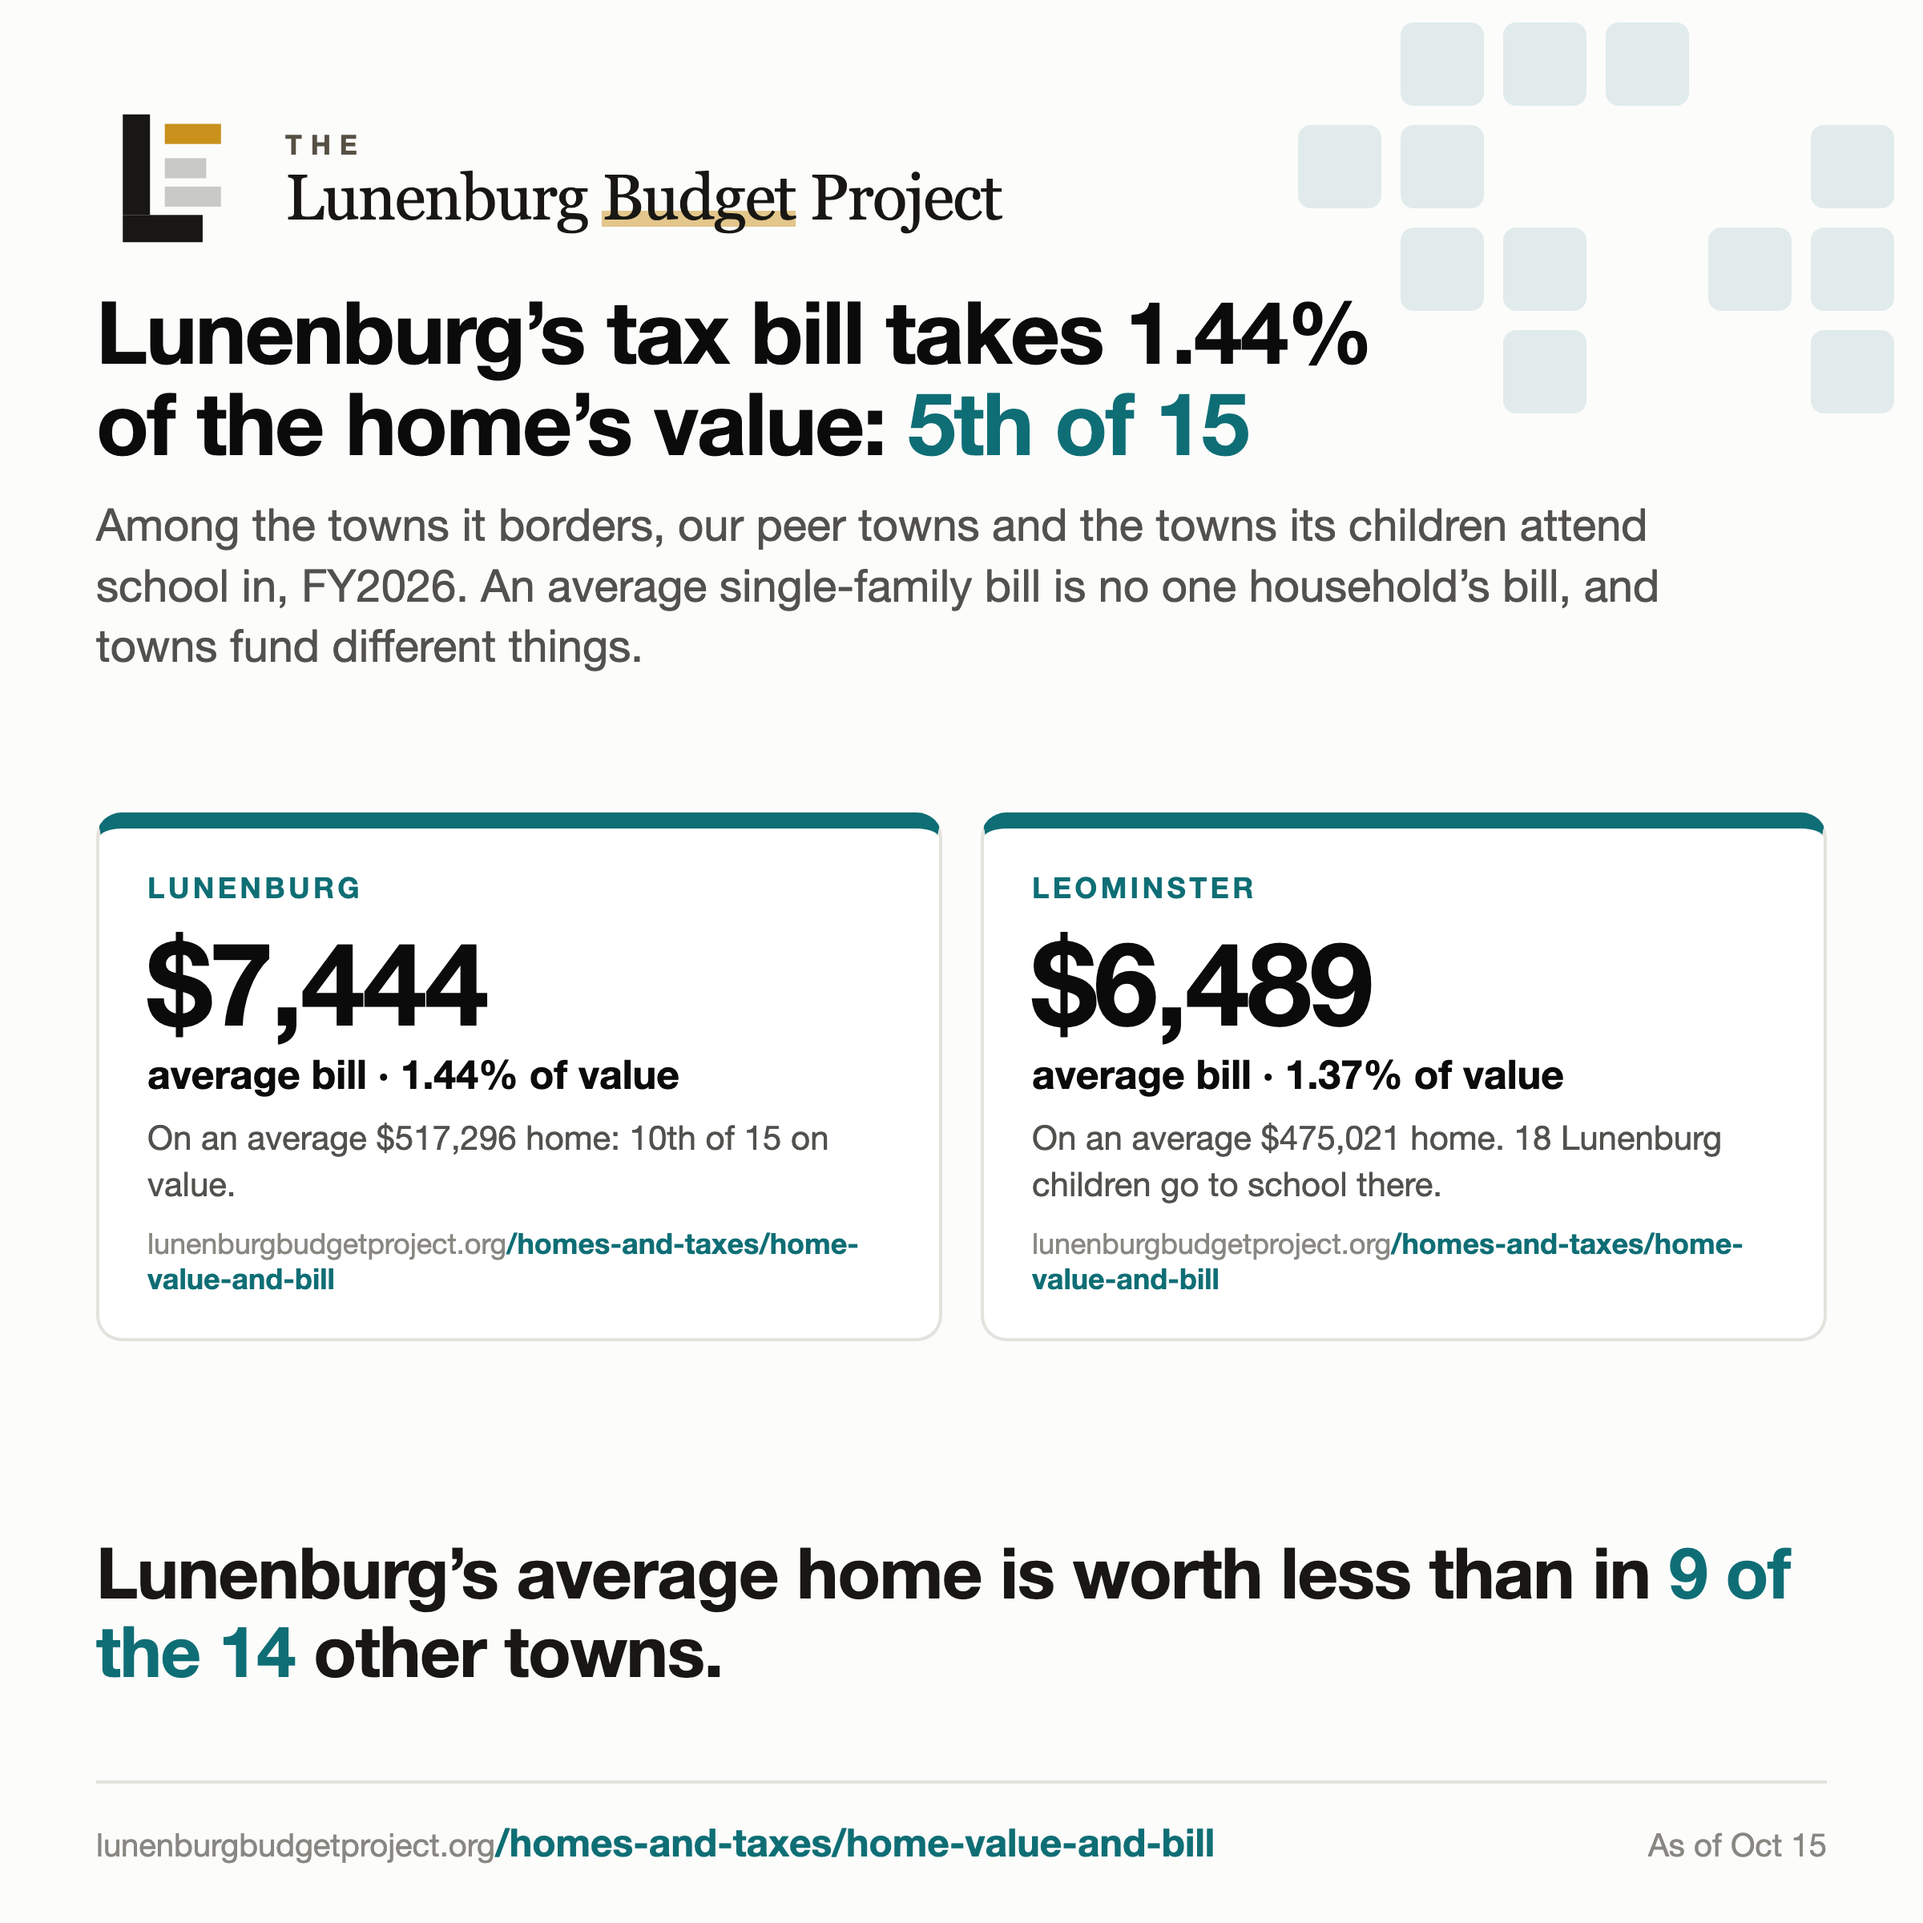
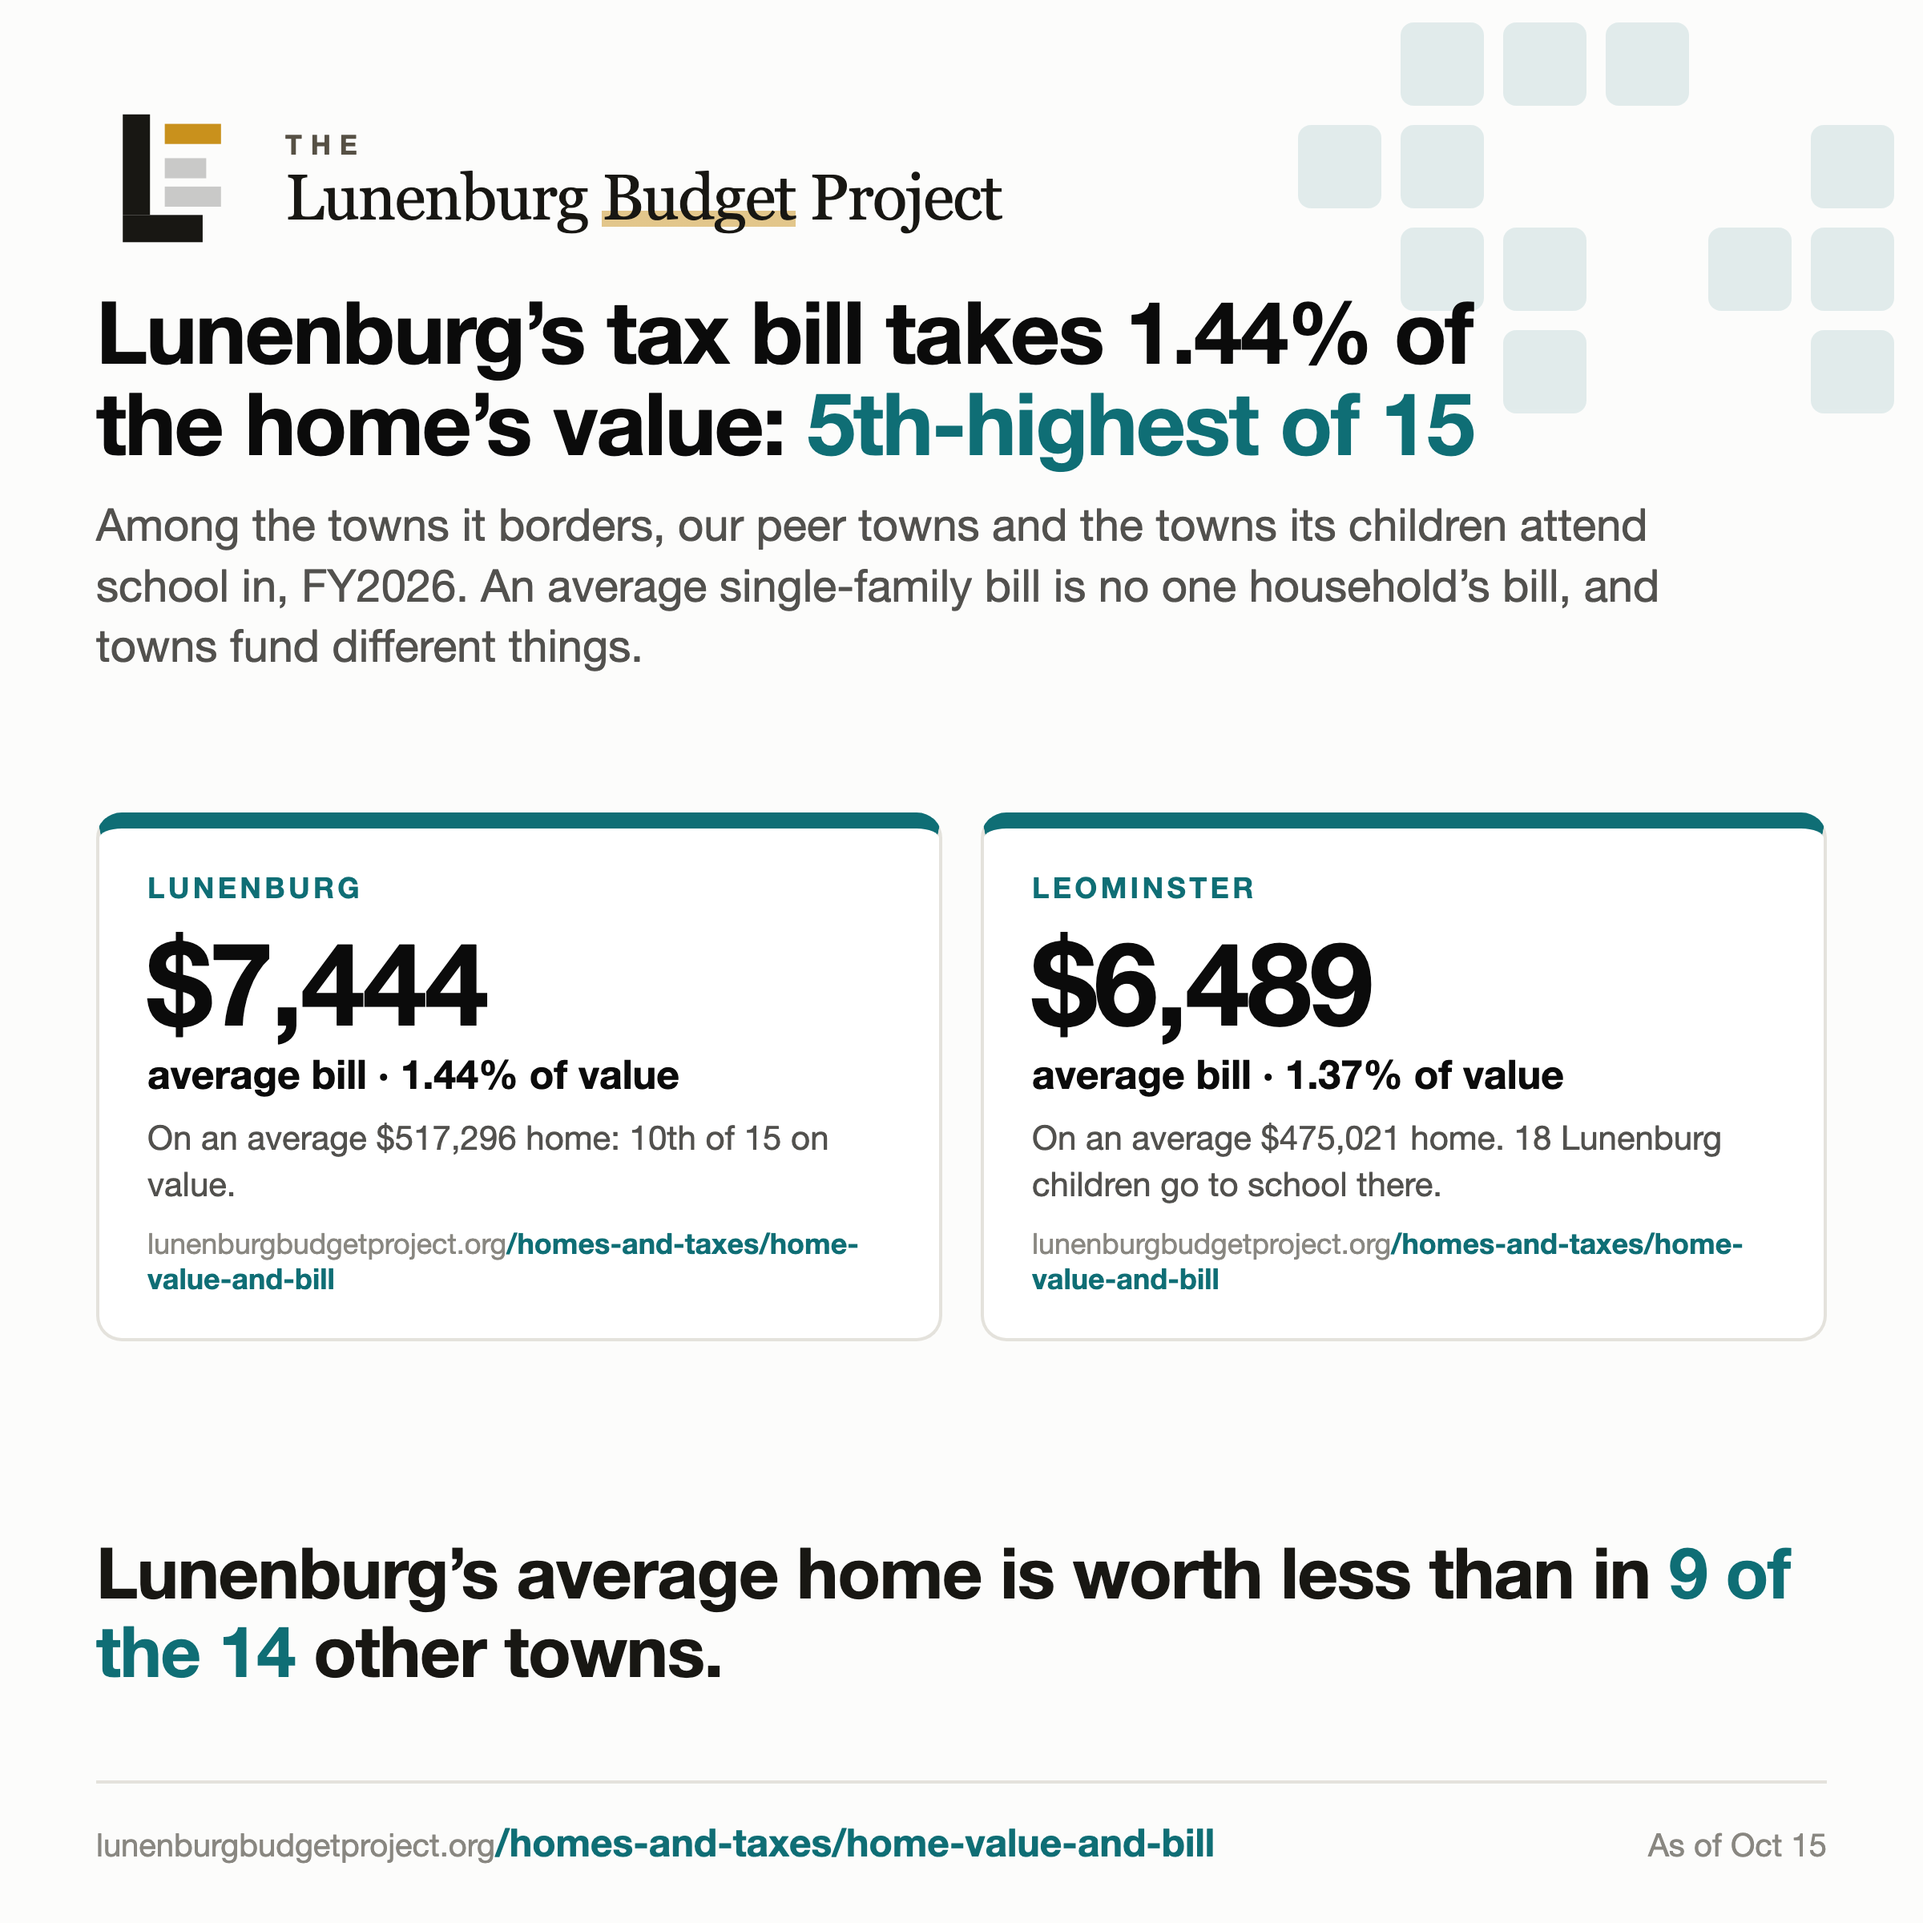
Home value and bill: say which end a rank counts from
"5th of 15" could be read as 5th-lowest. The finding and conclusions -- the
text the property-tax post quotes -- now say "5th-highest of 15"; the
tiles, which hold 14 characters, say "highest first" in their labels.

Claude-Session: https://claude.ai/code/session_014fdUitnBS7xxmQNfQ1GHBV

Changed region(s): [[0.0625, 0.1562, 0.7812, 0.25]]

diff --git a/social/posts/2026-10-15-property-taxes/image.html b/social/posts/2026-10-15-property-taxes/image.html
@@ -54,7 +54,7 @@ h1 em{font-style:normal;color:#0f6e75}
 <svg class="motif" width="1200" height="1200" viewBox="0 0 1200 1200"><g opacity=".11"><rect x="1130" y="78" width="52" height="52" rx="8" fill="#0f6e75"/><rect x="1130" y="142" width="52" height="52" rx="8" fill="#0f6e75"/><rect x="1130" y="206" width="52" height="52" rx="8" fill="#0f6e75"/><rect x="1066" y="142" width="52" height="52" rx="8" fill="#0f6e75"/><rect x="1002" y="14" width="52" height="52" rx="8" fill="#0f6e75"/><rect x="938" y="14" width="52" height="52" rx="8" fill="#0f6e75"/><rect x="938" y="142" width="52" height="52" rx="8" fill="#0f6e75"/><rect x="938" y="206" width="52" height="52" rx="8" fill="#0f6e75"/><rect x="874" y="14" width="52" height="52" rx="8" fill="#0f6e75"/><rect x="874" y="78" width="52" height="52" rx="8" fill="#0f6e75"/><rect x="874" y="142" width="52" height="52" rx="8" fill="#0f6e75"/><rect x="810" y="78" width="52" height="52" rx="8" fill="#0f6e75"/></g></svg>
 <div class="frame">
 <div class="logo"><svg class="lm" viewBox="4 3 26 26"><rect x="8.5" y="5" width="4.6" height="17" fill="#181713"/><rect x="8.5" y="22" width="13.5" height="4.6" fill="#181713"/><rect x="15.6" y="6.6" width="9.5" height="3.4" fill="#c9911c"/><rect x="15.6" y="12.4" width="7" height="3.4" fill="#181713" opacity=".22"/><rect x="15.6" y="17.2" width="9.5" height="3.4" fill="#181713" opacity=".22"/></svg><div class="lw"><div class="lt">The</div><div class="ln" style="font-family:Georgia, &quot;Iowan Old Style&quot;, &quot;Times New Roman&quot;, serif">Lunenburg <span class="lhl">Budget</span> Project</div></div></div>
-<h1>Lunenburg’s tax bill takes 1.44% of the home’s value: <em>5th of 15</em></h1>
+<h1>Lunenburg’s tax bill takes 1.44% of the home’s value: <em>5th-highest of 15</em></h1>
 <p class="sub">Among the towns it borders, our peer towns and the towns its children attend school in, FY2026. An average single-family bill is no one household’s bill, and towns fund different things.</p>
 <div class="body"><div class="tiles"><div class="t"><div class="te">LUNENBURG</div><div class="tn">$7,444</div><div class="tu">average bill · 1.44% of value</div><div class="td">On an average $517,296 home: 10th of 15 on value.</div><div class="tp">lunenburgbudgetproject.org<b>/homes-and-taxes/home-value-and-bill</b></div></div><div class="t"><div class="te">LEOMINSTER</div><div class="tn">$6,489</div><div class="tu">average bill · 1.37% of value</div><div class="td">On an average $475,021 home. 18 Lunenburg children go to school there.</div><div class="tp">lunenburgbudgetproject.org<b>/homes-and-taxes/home-value-and-bill</b></div></div></div></div>
 <p class="concl">Lunenburg’s average home is worth less than in <em>9 of the 14</em> other towns.</p>

diff --git a/scripts/build_homes_and_taxes_topics.py b/scripts/build_homes_and_taxes_topics.py
@@ -1202,6 +1202,12 @@ def compare_pages(f, con, U, P, N, F):
     leo, fit = H['Leominster'], H['Fitchburg']
     kids = {t: s for t, _, s in dest}
     POS = lambda r, m: figure(r, '%s of %d' % (ordinal(r), m), 'towns')
+    # WHICH END A RANK COUNTS FROM, said in the words that travel. TJ, 15 October 2026: the
+    # post read "5th of 15", which a reader can take as 5th-lowest. Every rank here counts
+    # from the HIGHEST; the tiles say so in their labels (a tile value holds 14 characters),
+    # and the finding and the conclusions -- the text a post quotes -- say it in the figure.
+    HI = lambda r, m: figure(r, ('the highest of %d' % m) if r == 1 else '%s-highest of %d' % (ordinal(r), m), 'towns')
+    HI1 = lambda r: figure(r, 'the highest' if r == 1 else '%s-highest' % ordinal(r), 'rank')
     Y = F(fy)
     E = lambda v: figure(v, C.pct(v, 2), 'of value')
     src_tax = doc('state-dls/' + bills[('Lunenburg', fy)]['source_file'],
@@ -1211,14 +1217,14 @@ def compare_pages(f, con, U, P, N, F):
     out = {}
     out['home-value-and-bill'] = TP.page(
         'home-value-and-bill',
-        'Lunenburg’s average home ranks %s nearby towns on value but %s on its bill as a share of value.'
-        % (POS(rv, n)['text'], POS(re_, n)['text']),
+        'Lunenburg’s home value is %s nearby; its bill as a share of value, %s.'
+        % (HI1(rv)['text'], HI(re_, n)['text']),
         [f('bill', U(L['bill']), 'Lunenburg’s average single-family bill, %s' % C.fy(fy), 'published', {'y': Y}),
          f('value', U(L['value']), 'Lunenburg’s average single-family value, %s' % C.fy(fy), 'published', {'y': Y}),
          f('eff', E(L['eff']), 'Lunenburg’s bill as a share of the home’s value', 'published'),
-         f('rb', POS(rb, n), 'nearby and destination towns, by average bill', 'published'),
-         f('rv', POS(rv, n), 'the same towns, by average home value', 'published'),
-         f('re', POS(re_, n), 'the same towns, by bill as a share of value', 'published'),
+         f('rb', POS(rb, n), 'nearby and destination towns, by bill, highest first', 'published'),
+         f('rv', POS(rv, n), 'the same towns, by home value, highest first', 'published'),
+         f('re', POS(re_, n), 'by bill as a share of value, highest first', 'published'),
          f('top', U(H[top]['bill']), '%s, the highest average bill of them' % top, 'published'),
          f('leo', U(leo['bill']), 'Leominster’s average bill, on a %s home' % C.usd(leo['value']),
            'published', {'v': U(leo['value'])}),
@@ -1230,9 +1236,9 @@ def compare_pages(f, con, U, P, N, F):
         [con('The average home here is worth less than in %d of the %d other towns; its bill ranks %s.'
              % (rv - 1, n - 1, ordinal(rb)), ['value', 'rv', 'rb', 'bill'],
              {'a': N(rv - 1, 'towns'), 'b': N(n - 1, 'towns'), 'c': figure(rb, ordinal(rb), 'rank')}),
-         con('The bill takes %s of the home’s value, %s of %d: a higher rate on a lower value.'
-             % (C.pct(L['eff'], 2), ordinal(re_), n), ['eff', 're'],
-             {'p': E(L['eff']), 'r': figure(re_, ordinal(re_), 'rank'), 'n': N(n, 'towns')},
+         con('The bill takes %s of the home’s value, %s: a higher rate on a lower value.'
+             % (C.pct(L['eff'], 2), HI(re_, n)['text']), ['eff', 're'],
+             {'p': E(L['eff']), 'r': HI(re_, n)},
              notes=[step('A town’s rate is its levy spread over its total value, so a rate says as '
                          'much about the business base and the budget as about the homes.', 'hypothesis')]),
          con('Leominster and Fitchburg border the town and Harvard is our peer; all three enrol '
@@ -1271,7 +1277,7 @@ def compare_pages(f, con, U, P, N, F):
                  'The twenty towns nearest Lunenburg on measures this project chose, given equal weight.'),
             ]]),
         sources=[src_tax, src_dest],
-        finding_figures={'a': POS(rv, n), 'b': POS(re_, n)})
+        finding_figures={'a': HI1(rv), 'b': HI(re_, n)})
 
     # ------------------------------------------------ the regional school share
     mta = {(int(r['fiscal_year']), r['component']): r for r in csv.DictReader(open(MTA_CSV, encoding='utf-8'))}
